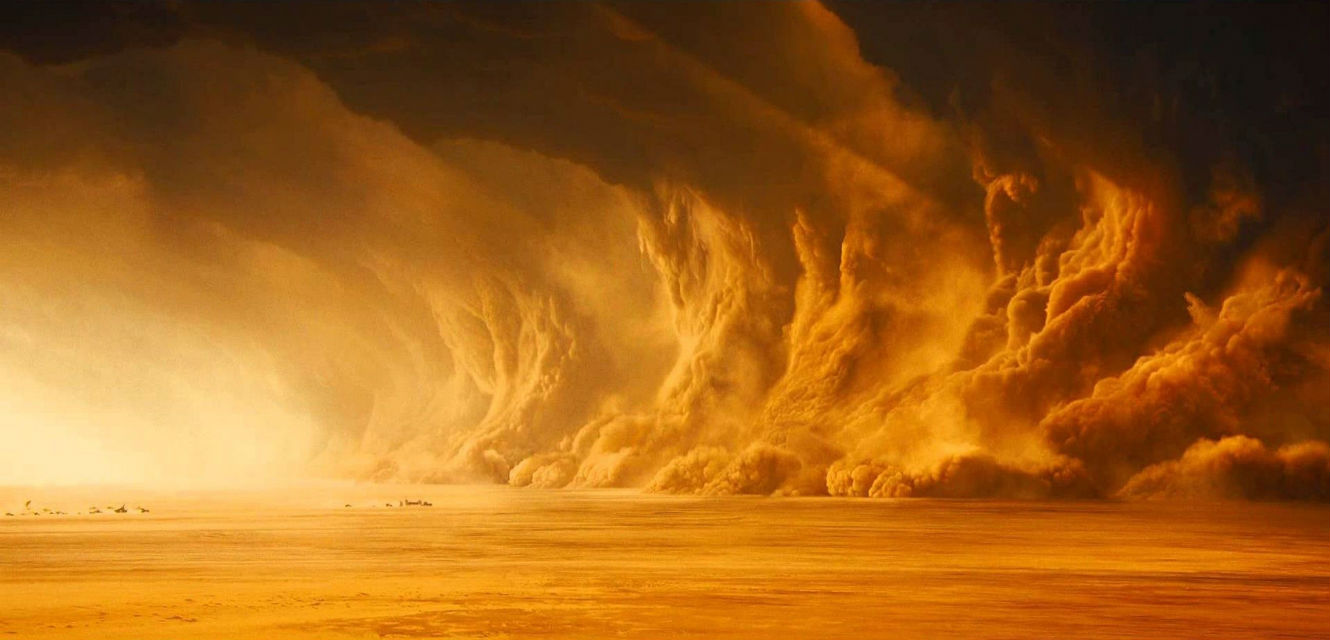
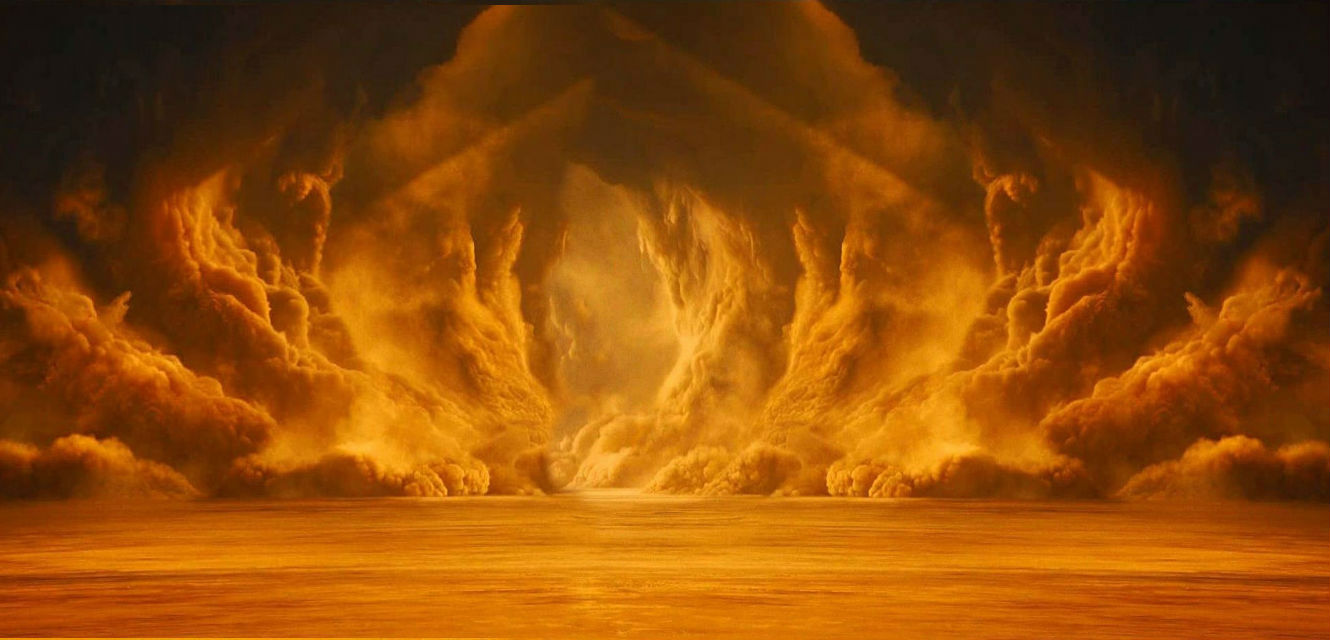
Despues de tanto tiempo el paso de vineles listo
:)

diff --git a/MomiasVivientes/juego.cpp b/MomiasVivientes/juego.cpp
@@ -91,15 +91,14 @@ void juego::nivel1()
 
 void juego::nivel2()
 {
-    scene->setBackgroundBrush(QBrush(QImage(":/N2")));
-    jugador=new momia();
-    scene->addItem(jugador);
-    suelo = new base();
+    scene->setBackgroundBrush(QBrush(QImage(":/N2.jpg")));
+    scene->setSceneRect(jugador->getPX(),10,1000,500);
     suelo->setPx_base(-40);
     suelo->setPy_base(525);
     suelo->setPos(suelo->getPx_base(),suelo->getPy_base());
-    suelo->setPixmap(QPixmap(":/suelo"));
-    scene->addItem(suelo);
+    suelo->setPixmap(QPixmap(":/sueloN2.jpg"));
+    scene->addItem(jugador);
+    jugador->setPos(0,370);
     mover=false;
     saltar=false;
     lanzar=false;
@@ -113,6 +112,25 @@ void juego::nivel2()
     timer3->start(30000);
     timer_Plataforma->start(5000);
 
+}
+
+void juego::nivel3()
+{
+    scene->setBackgroundBrush(QBrush(QImage(":/N3.jpg")));
+    suelo->setPx_base(-40);
+    suelo->setPy_base(525);
+    suelo->setPos(suelo->getPx_base(),suelo->getPy_base());
+    suelo->setPixmap(QPixmap(":/suelo.jpg"));
+    jugador->setPos(0,370);
+    scene->addItem(jugador);
+    mover=false;
+    saltar=false;
+    lanzar=false;
+    lluvia->start();
+    timer1->start(40);
+    timer2->start(2500);
+    timer3->start(30000);
+    timer_Plataforma->start(5000) ;
 }
 
 void juego::multijugador()
@@ -156,10 +174,43 @@ void juego::avanzar()
           scene->removeItem(plataformas.at(i));
        }
        plataformas.clear();
-       delete jugador;
-       close();
+       //delete jugador;
        ventana->show();
+       contventana=4;
+       close();
+
    }
+}
+
+void juego::avanzar2()
+{
+    if(int(control->puntaje)==(20)){ contventana++;qDebug()<<"cuando esta en la funcion"<<contventana;}
+    if(contventana==1)
+    {
+         //Se debe parar los stop y eliminar todos los objetos
+        timer1->stop();
+        timer2->stop();
+        timer3->stop();
+        timer_Plataforma->stop();
+        lluvia->stop();
+        qDebug()<<"llego aca........"<<plataformas.size();
+        //dddui->gotas->clear();
+        scene->removeItem(jugador);
+       // delete jugador;
+        if(plataformas.size()!=0){
+        for(int i=0;i<int(plataformas.size());i++)
+        {
+           scene->removeItem(plataformas.at(i));
+        }
+        }
+        qDebug()<<"antes";
+        plataformas.clear();
+        qDebug()<<"despues";
+
+        ventana->show();
+        close();
+
+    }
 }
 
 void juego::colision()
@@ -178,9 +229,10 @@ void juego::colision()
                 break;
             }
             else{
+            col=true;
             if(int(jugador->getPY())!=370 && saltar==false && saltoparabolico == false)
                 {
-                jugador->setPY(370);jugador->setPos(jugador->getPX(),jugador->getPY());col=true;
+                jugador->setPY(370);jugador->setPos(jugador->getPX(),jugador->getPY());
                 }
             }
        }
@@ -308,6 +360,7 @@ void juego::generar_obst()
 void juego::generar_plataforma()
 {
     base * plataforma = new base();
+    qDebug()<<plataformas.size();
     if(int(plataformas.size())==0){plataforma->setPx_base(jugador->getPX() + 1100);}
     else{plataforma->setPx_base(plataformas.last()->getPx_base() + 1100);}
     plataformas.append(plataforma);

diff --git a/MomiasVivientes/niveles.cpp b/MomiasVivientes/niveles.cpp
@@ -10,6 +10,8 @@ niveles::niveles(QWidget *parent) :
     verificar= new QTimer();
     connect(verificar,SIGNAL(timeout()),this,SLOT(verificar_nivel()));
     verificar->start();
+    nivel2=0;
+    nivel3=0;
 
 }
 
@@ -20,39 +22,48 @@ niveles::~niveles()
 
 void niveles::on_nivel1_clicked()
 {
-    Juego->nivel1();
-    Juego->show();
-    close();
+    if(Juego->control->puntaje==0)
+    {
+        Juego->nivel1();
+        Juego->show();
+        close();
+    }
 
 }
-
 void niveles::on_nivel2_clicked()
 {
+
     if(Juego->control->puntaje==10)
     {
+
        Juego->nivel2();
        Juego->show();
        close();
+
     }
 }
-
 void niveles::on_nivel3_clicked()
 {
-    if(Juego->control->puntaje==100)
+    if(Juego->control->puntaje==20)
     {
-
+        Juego->nivel3();
+        Juego->show();
+        close();
     }
 }
-
 void niveles::verificar_nivel()
 {
 
     if(int(Juego->control->puntaje)==10)
     {
-        Juego->avanzar();
+        nivel2++;
+        if(nivel2==1){Juego->avanzar();}
     }
-    if(int(Juego->control->puntaje)==60)
+    else if(int(Juego->control->puntaje==20))
     {
-         Juego->avanzar();
+
+        nivel3++;
+        if(nivel3==1){Juego->contventana=0;Juego->avanzar2();}
     }
+
 }

diff --git a/MomiasVivientes/juego.h b/MomiasVivientes/juego.h
@@ -42,10 +42,13 @@ public:
     void explosion(int x,int y);
     void nivel1();
     void nivel2();
+    void nivel3();
     void multijugador();
     void avanzar();
+    void avanzar2();
     void colision();
     bool sumar,opc_multijugador;
+    int contventana;
     momia* jugador;
     momia* jugador2;
     QList<base*> plataformas;
@@ -58,7 +61,7 @@ private:
     bool mover, saltar,lanzar,saltoparabolico,col, mover_j2, saltar_j2, lanzar_j2, saltoparabolico_j2;
     QGraphicsScene *scene;
     float dt,dt2;
-    int cont,contventana, tipo_mov1 ,tipo_mov2;
+    int cont, tipo_mov1 ,tipo_mov2;
     QMediaPlayer* salto;
     QMediaPlayer* lanzar2;
     QMovie* lluvia;

diff --git a/MomiasVivientes/niveles.h b/MomiasVivientes/niveles.h
@@ -17,6 +17,7 @@ class niveles : public QWidget
 public:
     explicit niveles(QWidget *parent = 0);
     ~niveles();
+    int nivel2,nivel3;
 
 private slots:
     void on_nivel1_clicked();

diff --git a/MomiasVivientes/inicio.cpp b/MomiasVivientes/inicio.cpp
@@ -47,7 +47,6 @@ void inicio::on_pushButton_clicked()
     }
 }
 
-
 void inicio::on_pushButton_2_clicked()
 {   //reiniciar
     ui->error->clear();
